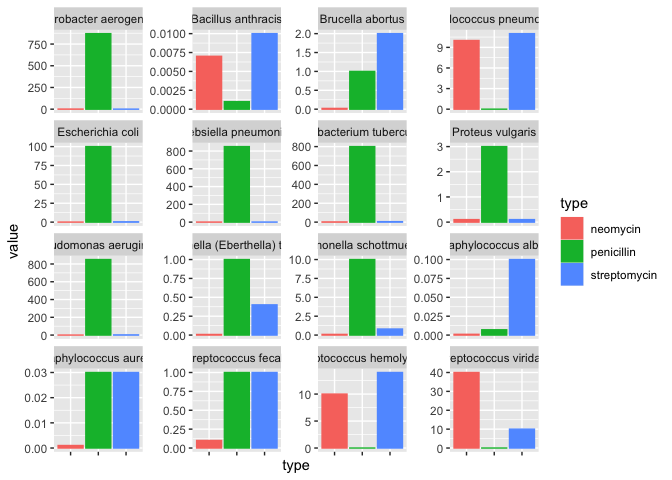
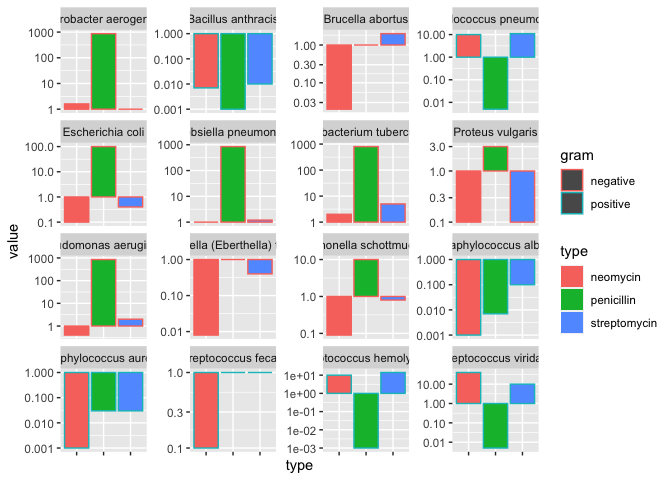
Resubmit challenge 5

Changed region(s): [[0.0312, 0.0, 0.9688, 1.0]]

diff --git a/challenges/c05-antibiotics-assignment.md b/challenges/c05-antibiotics-assignment.md
@@ -162,6 +162,7 @@ df_antibiotics %>%
   ggplot() +
   geom_jitter(aes(x = type, y = value, color = gram, shape = type)) +
   facet_wrap(~gram, scales = "free_y") +
+  scale_y_log10() +
   theme(legend.position = "none")
 ```
 
@@ -184,7 +185,8 @@ df_antibiotics %>%
     values_to = "value"
   ) %>%
   ggplot() +
-  geom_col(aes(x = type, y = value, color = type, fill = type)) +
+  geom_col(aes(x = type, y = value, color = gram, fill = type)) +
+  scale_y_log10() +
   facet_wrap(~bacteria, scales = "free_y") +
   theme(axis.text.x=element_blank())
 ```
@@ -222,6 +224,7 @@ df_antibiotics %>%
   mutate(avg = rowSums(df_antibiotics[, c(2, 3, 4)], na.rm=TRUE) / 3) %>%
   ggplot() +
   geom_point(aes(x = bacteria, y = avg)) +
+  scale_y_log10() +
   coord_flip() +
   ggtitle("Average MICs across penicillin, streptomycin, & neomycin")
 ```
@@ -275,44 +278,41 @@ opportunity to think about why this is.**
 
 - What is your response to the question above?
 
-  - Penicillin negative is extremely ineffective against 4 strains of
+  - Penicillin is extremely ineffective against 4 strains of negative
     bacteria (much more so than any other antibiotic and gram stain
-    combination). This is indicated by the high MIC values - well
+    combination). This is indicated by the high MIC values that are well
     over 750. In comparison to the rest of the data (most with MIC
     values under 100), this is massive.
 
-  - Penicillin positive, on the other hand, appears to be quite
-    effective against all the bacteria it was tested on. Many of the
-    data points appear to fall at or very close to 0. None of the points
-    are visually extreme outliers like the four in the penicillin
-    negative plot.
+  - On the other hand, penicillin appears to be quite effective against
+    all the positively-stained bacteria it was tested on. All points
+    except for one fall below the threshold of 0.1, which counts as
+    effective for human treatment. The remaining point falls at/near 1,
+    which is still low compared to the negative gram values even if it
+    isn’t suitable for human treatment.
 
-  - Streptomycin positive has points that appear to all lie quite
-    closely to 0, which supposedly indicates that streptomycin positive
-    is effective against the bacteria it was tested on. I will make a
-    note though that the visualization I am referencing has an oversized
-    scale, up to probably 900, compared to the points I am looking at,
-    which are probably less than 10. This makes it extremely difficult
-    to see how much these points vary, and whether they are actually
-    close to the 0.1 threshold or not.
+  - On negatively-stained bacteria, Streptomycin is not suitable to
+    treat any of the bacteria. All of the points except 1 fall above
+    0.1. One point does fall extremely close to 0.1, but because I can’t
+    accurately determine if it is above or below I don’t want to jump to
+    any conclusions.
 
-  - Streptomycin negative appears to have quite a large spread of
-    values. One bacteria’s MIC value is at 40, a couple are at 10, and
-    the rest appear to be quite close to 0. Because there are a few
-    points that are not visually close to 0, it can be said that
-    streptomycin is not a consistently effective treatment against these
-    bacteria with a negative stain.
+  - Tested on positively stained bacteria, Streptomycin has only 2
+    points falling below 0.1. The majority (4 points) definitively fall
+    above this threshold. One point falls extremely close to the
+    threshold, and based on my eyeballing appears to be above it. But
+    because it is not obvious, I am not going to make any solid
+    conclusions about it. As most of the points here are above the
+    threshold, I would say Streptomycin is not super effective against
+    the positive-stain bacteria overall.
 
-  - Neomycin positive, much like Streptomycin positive, has points that
-    all appear to be close to 0. This implies that Neomycin positive is
-    an effective treatment to all the bacteria. However, it is again
-    important to point out that the y scale of the graph is much higher
-    than whatever scale the Neomycin positive MIC values are operating
-    on. This makes it hard to analyze differences of 10 or less.
-
-  - Neomycin negative is pretty effective for most bacteria, as many of
-    the MIC values are close to 0. Only 2 bacteria, it seems, have high
-    values close to 10 that indicate a lack of effectiveness.
+  - Neomycin is only somewhat effective for both negatively- and
+    positively-stained bacteria, which I say because there is almost an
+    even split between points falling above/below 0.1 for both. A few
+    points do visually fall on the 0.1 marker: two for negative bacteria
+    and one for positive. Because of this, it is hard to tell if
+    Neomycin meets the threshold requirements to be considered effective
+    against these bacteria or not.
 
 - Which of your visuals above (1 through 5) is **most effective** at
   helping to answer this question? Why?
